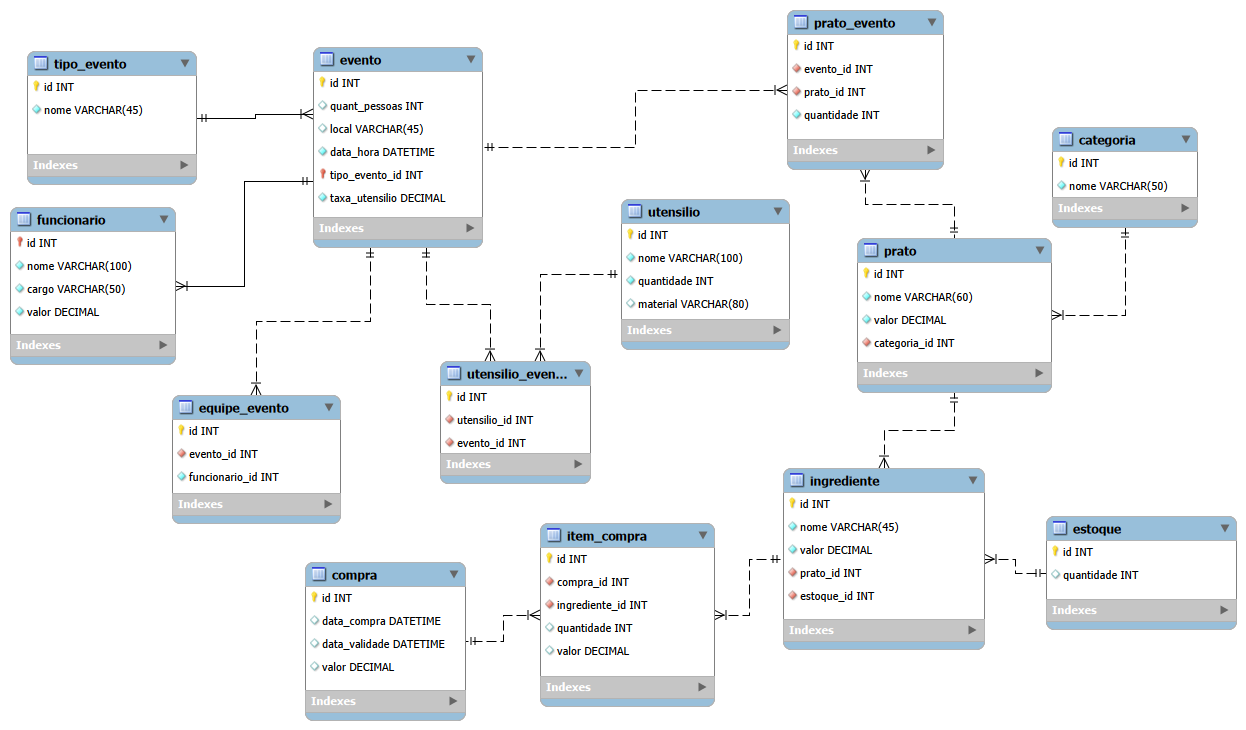
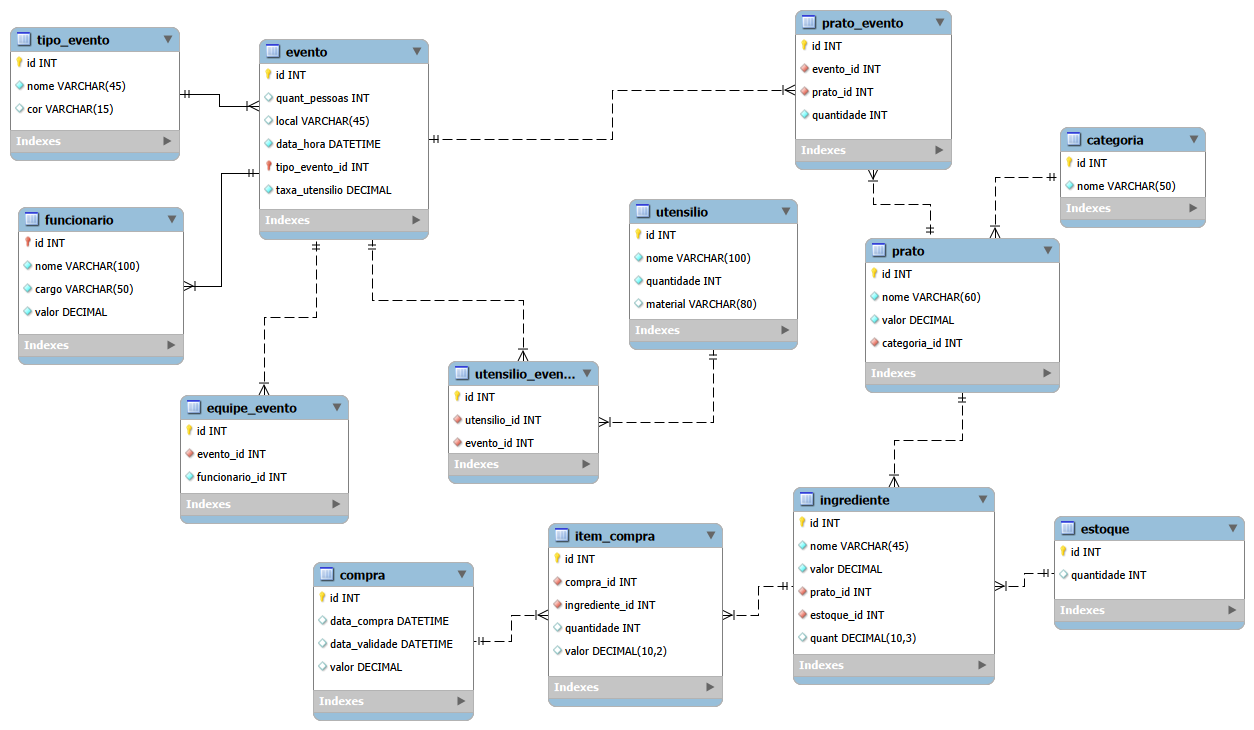
docs: modelagem do banco atualizada

diff --git a/README.md b/README.md
@@ -411,7 +411,7 @@ O diagrama de caso de uso é uma ferramenta de modelagem que descreve o comporta
 - Descrevem como o sistema é percebido por seus usuários.
 - Descrevem as interações entre os usuários e o sistema.
 
-![Diagrama de Caso de Uso](img/dcu1.png "Diagrama de Caso de Uso")
+![Diagrama de Caso de Uso](img/Modelagem%20do%20banco.png "Diagrama de Caso de Uso")
 
 **Os casos de uso:**
 - Descrevem como os **usuários interagem com o sistema** (as funcionalidades do sistema)
